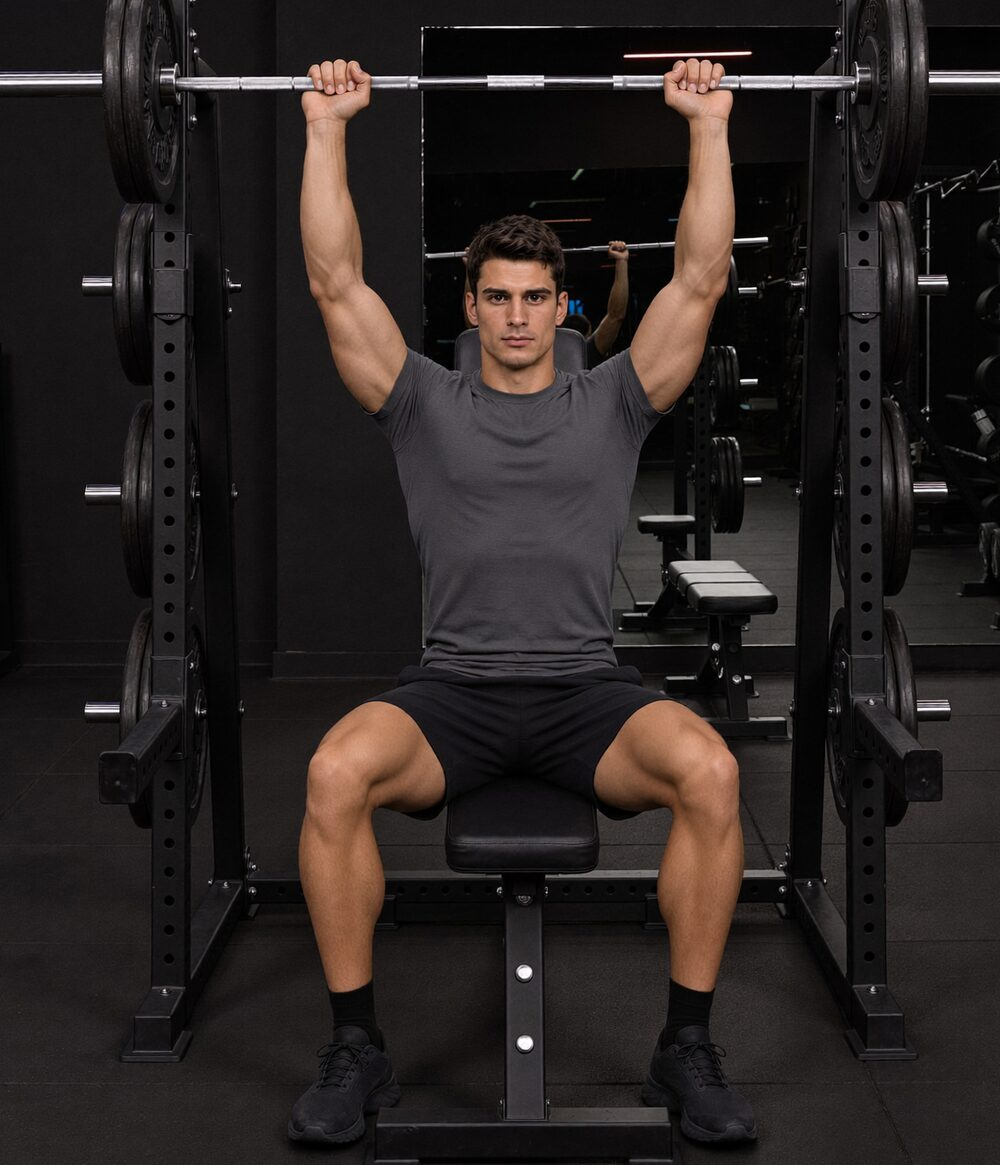
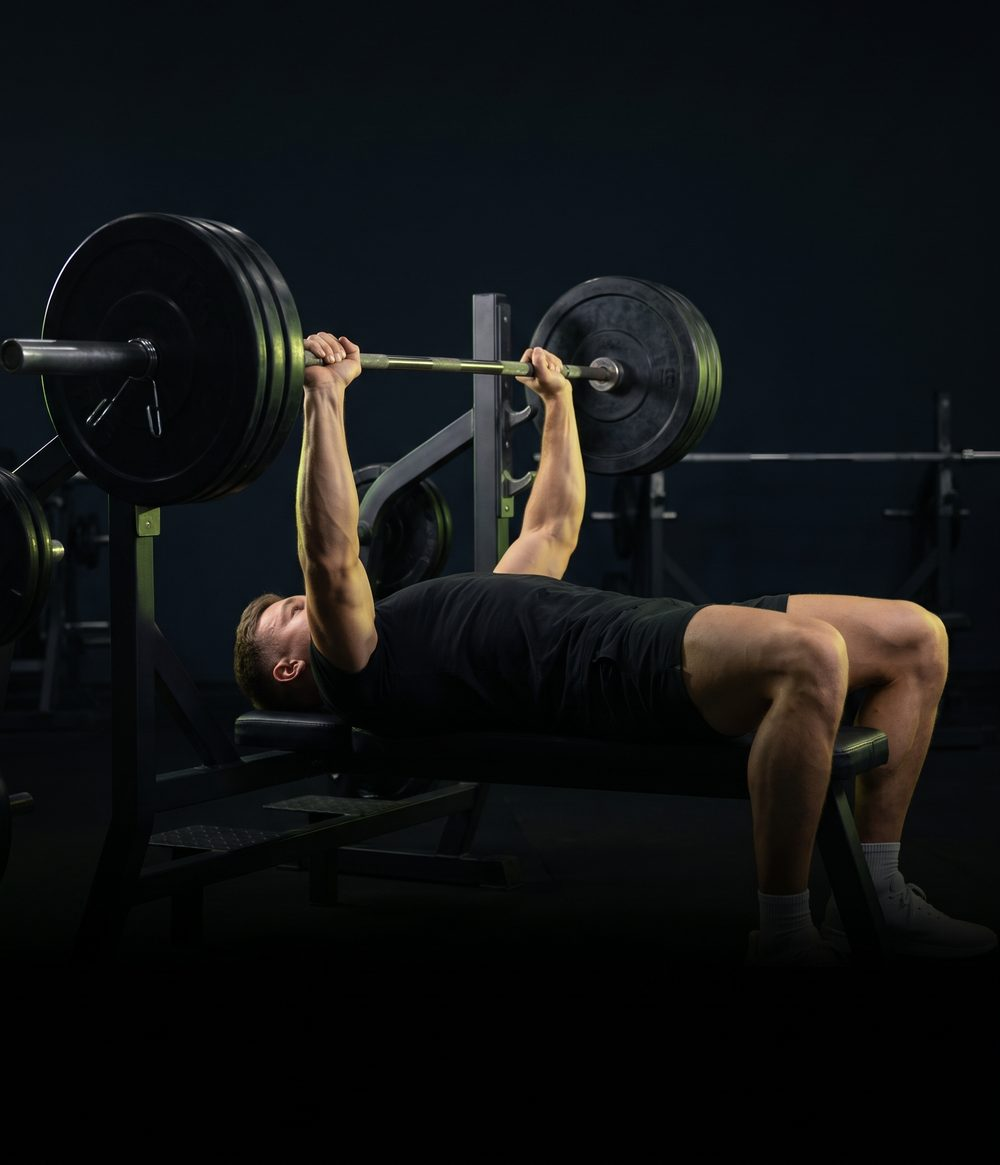
Workout photos: Filip's backgrounds for all six routines
Today (3:2) and Train (portrait) crops for upper-push (new bench shot),
pull-arms, legs-glutes, lower-a, full-a, full-b. The old seated press photo
moves to assets/exercises/ for the exercise trial.

Claude-Session: https://claude.ai/code/session_012X2RPwtA7rJZdghQk5xuf9

diff --git a/src/data/workoutImages.ts b/src/data/workoutImages.ts
@@ -8,6 +8,11 @@ import type { ImageSourcePropType } from 'react-native';
  */
 export const WORKOUT_IMAGES: Record<string, ImageSourcePropType> = {
   'upper-push': require('../../assets/workouts/upper-push.jpg'),
+  'pull-arms': require('../../assets/workouts/pull-arms.jpg'),
+  'legs-glutes': require('../../assets/workouts/legs-glutes.jpg'),
+  'lower-a': require('../../assets/workouts/lower-a.jpg'),
+  'full-a': require('../../assets/workouts/full-a.jpg'),
+  'full-b': require('../../assets/workouts/full-b.jpg'),
 };
 
 /**
@@ -16,4 +21,9 @@ export const WORKOUT_IMAGES: Record<string, ImageSourcePropType> = {
  */
 export const TRAIN_IMAGES: Record<string, ImageSourcePropType> = {
   'upper-push': require('../../assets/workouts/upper-push-train.jpg'),
+  'pull-arms': require('../../assets/workouts/pull-arms-train.jpg'),
+  'legs-glutes': require('../../assets/workouts/legs-glutes-train.jpg'),
+  'lower-a': require('../../assets/workouts/lower-a-train.jpg'),
+  'full-a': require('../../assets/workouts/full-a-train.jpg'),
+  'full-b': require('../../assets/workouts/full-b-train.jpg'),
 };

diff --git a/src/data/exerciseImages.ts b/src/data/exerciseImages.ts
@@ -6,6 +6,6 @@ import type { ImageSourcePropType } from 'react-native';
  * Exercises without a photo get a dark gradient; the muscle ring shows either way.
  */
 export const EXERCISE_IMAGES: Record<string, ImageSourcePropType> = {
-  // Trial photo: the seated press shot Filip sent for the Train hero.
-  'seated-dumbbell-press': require('../../assets/workouts/upper-push-train.jpg'),
+  // Trial photo: the seated press shot Filip first sent for the Train hero.
+  'seated-dumbbell-press': require('../../assets/exercises/seated-dumbbell-press.jpg'),
 };
